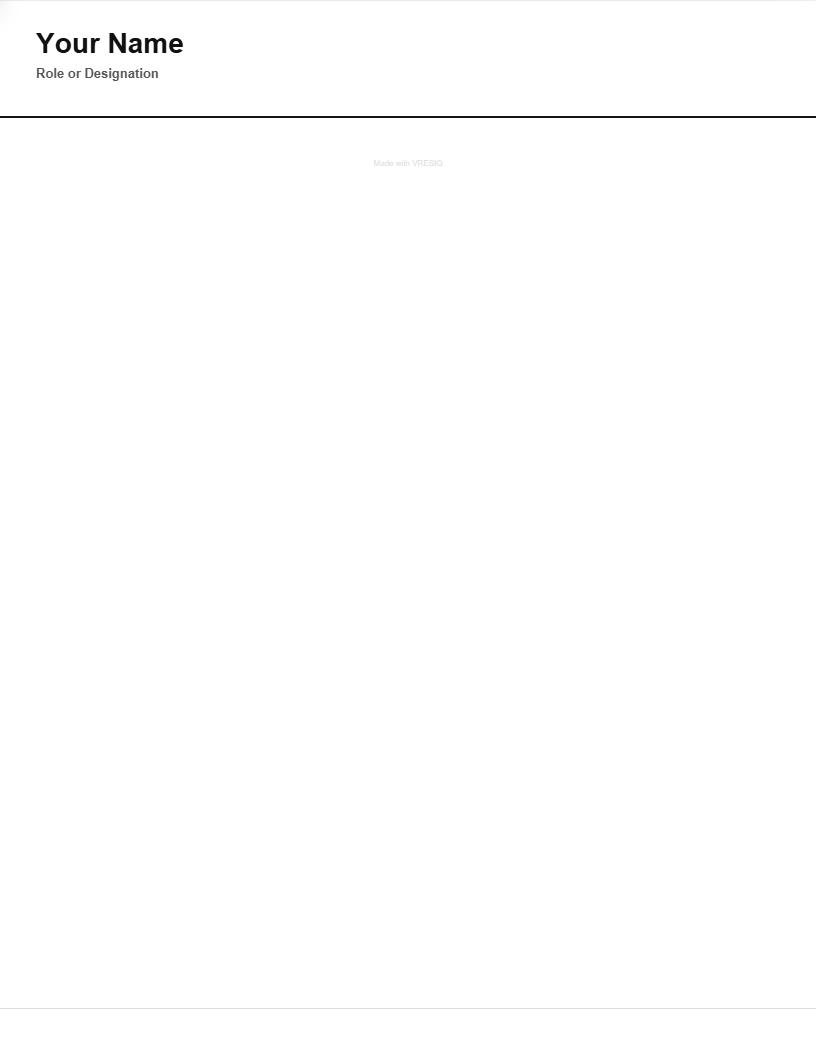
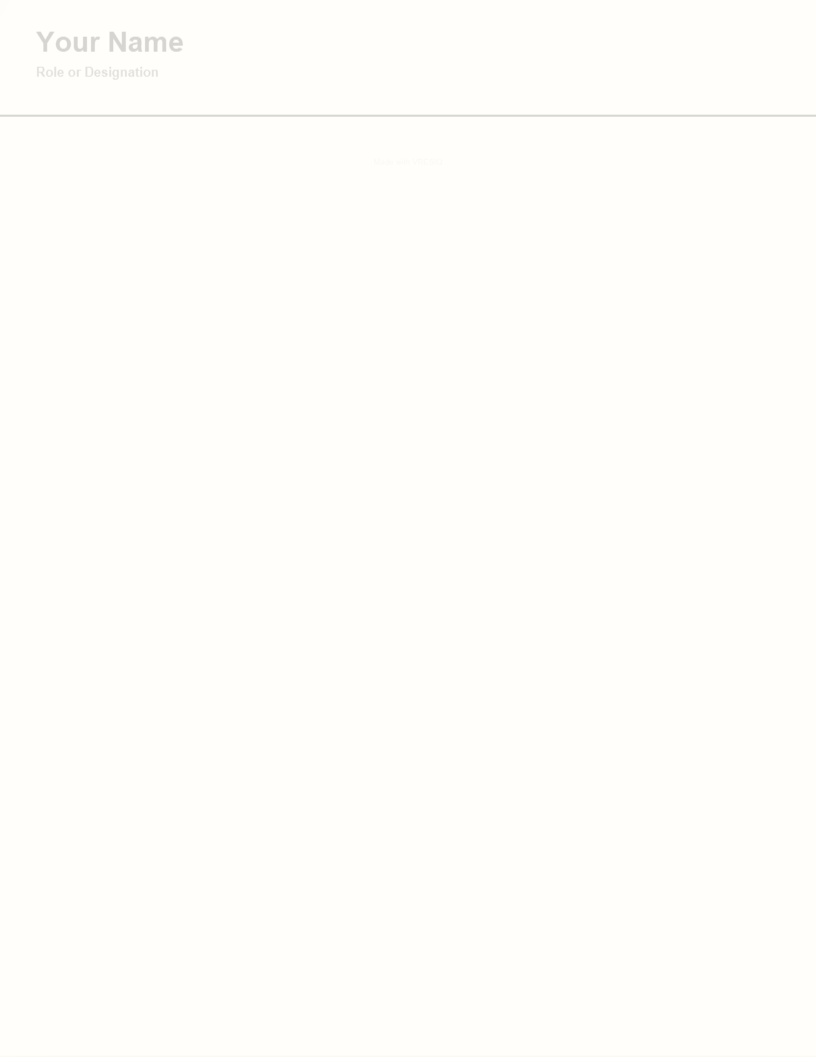
.

Changed region(s): [[0.0306, 0.0312, 0.2451, 0.0937]]

diff --git a/src/components/ResumePreview.css b/src/components/ResumePreview.css
@@ -104,34 +104,6 @@
   line-height: var(--rp-lh-body);
 }
 
-/* ── Page-break guide line (screen only) ────────────────────────────────────
-   Draws a subtle dashed line at every 1056 px so users can see exactly where
-   page breaks will fall in the exported PDF.  The line is purely decorative:
-   pointer-events:none, display:none in @media print, no layout impact.
-   ─────────────────────────────────────────────────────────────────────────── */
-.resume-preview::after {
-  content: "";
-  position: absolute;
-  top: 0;
-  left: 0;
-  right: 0;
-  bottom: 0;
-  pointer-events: none;
-  background-image: 
-    linear-gradient(to bottom, transparent 1007px, rgba(180, 180, 180, 0.45) 1007px, rgba(180, 180, 180, 0.45) 1008px, transparent 1008px),
-    linear-gradient(to bottom, transparent 1975px, rgba(180, 180, 180, 0.45) 1975px, rgba(180, 180, 180, 0.45) 1976px, transparent 1976px),
-    linear-gradient(to bottom, transparent 2943px, rgba(180, 180, 180, 0.45) 2943px, rgba(180, 180, 180, 0.45) 2944px, transparent 2944px),
-    linear-gradient(to bottom, transparent 3911px, rgba(180, 180, 180, 0.45) 3911px, rgba(180, 180, 180, 0.45) 3912px, transparent 3912px);
-  background-repeat: no-repeat;
-  z-index: 50;
-}
-
-@media print {
-  .resume-preview::after {
-    display: none !important;
-  }
-}
-
 /* ── Text selection inside preview — soft blue, never browser-default black */
 .resume-preview ::selection {
   background: rgba(26, 95, 180, 0.18);

diff --git a/src/pages/ResumeEditor.jsx b/src/pages/ResumeEditor.jsx
@@ -1048,13 +1048,6 @@ const ResumeEditor = () => {
               background-color: #ffffff !important;
             }
 
-            /* The page-break guide is a preview-only decoration.  Keep it out of
-               the serialized export even if a browser does not apply its media rule. */
-            #resume-preview::after,
-            .resume-preview::after {
-              display: none !important;
-            }
-            
             /* Ensure headers, icons, and text are visible and retain their template display behaviors (flex, grid, etc.) */
             header, .rp-header, .rp-ats-header, .rp-ats-header-left, .rp-academic-header {
               visibility: visible !important;
